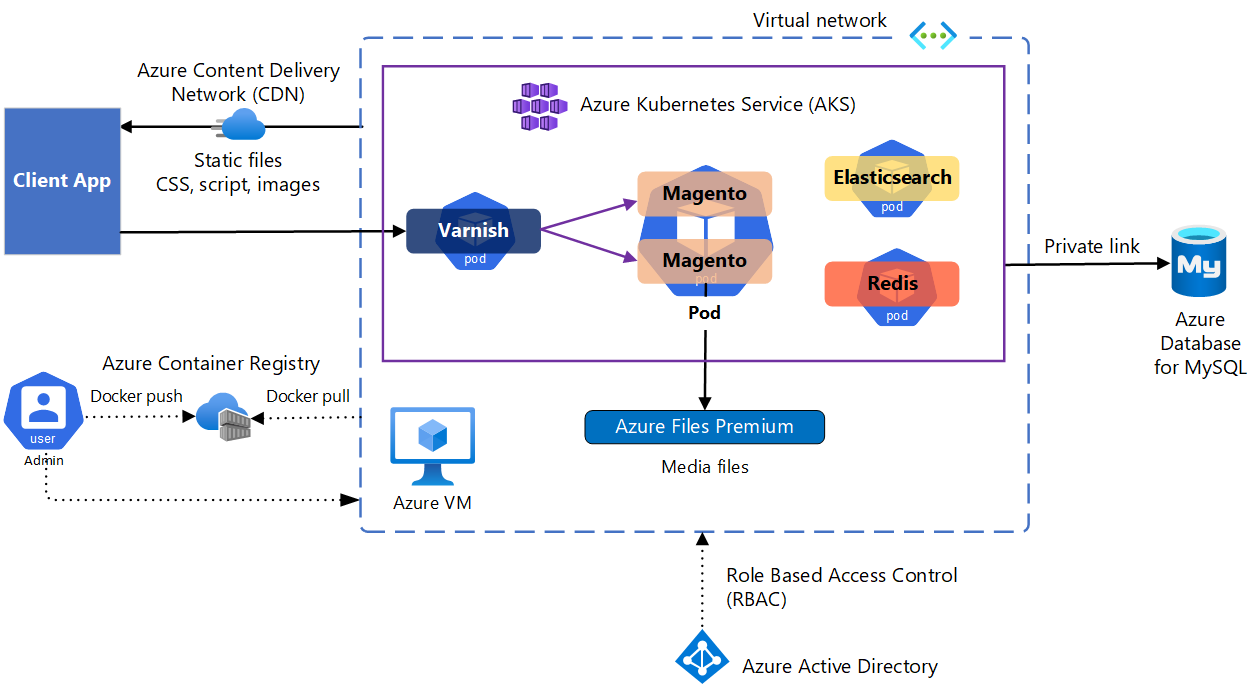
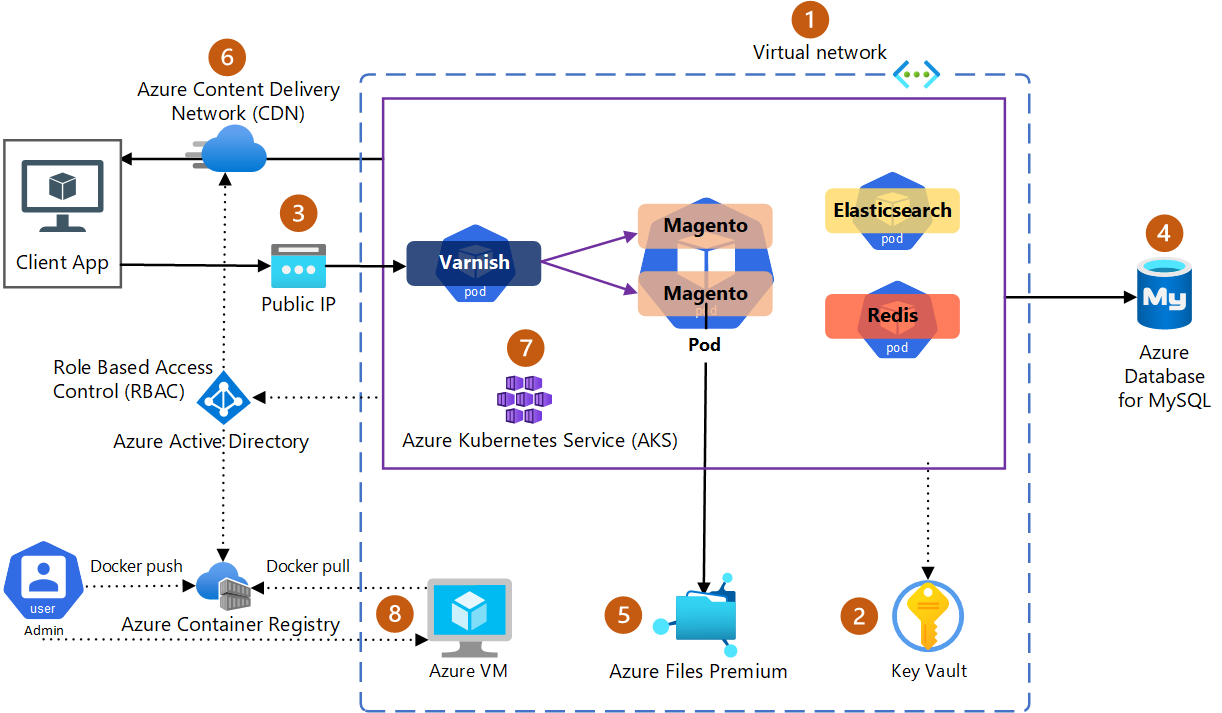
Updating Magento2 Documentation

diff --git a/Magento2/README.md b/Magento2/README.md
@@ -1,4 +1,4 @@
-# One-click ARM template to deploy Magento OSS e-commerce app on Azure
+# Deploy a Magento open-source LAMP-stack e-commerce app on Azure with one click!
 
 ## Introduction
 [Magento Open Source](https://business.adobe.com/products/magento/open-source.html) is a free and flexible e-commerce platform that allows you to create and manage online stores. This Azure Resource Manager JSON template provides a easy one-click method to deploy Magento on Azure using following Azure services to provide an optimal experience of hosting Magento on Azure with tight integrations.
@@ -19,20 +19,22 @@
 This solution includes automation to deploy in a single-click all the required AKS infrastructure, database server and deploy Magento and dependent components in AKS.
 
 The ARM template will create and deploy the following resources in your Azure account:
-![Magento2 solution architecture](images/magento2-architecture.png)
 
-* A virtual network with a subnet and a network security group.
-* A secret that stores the Magento Open-Source credentials and encryption keys.
-* A public IP address and a load balancer.
-* An Azure Database for MySQL – Flexible Server PaaS database for Magento Open Source, the best place for MySQL on Azure.
-* A Redis cache for Magento Open-Source session and page caching.
-* A storage account for Magento Open-Source media files. A persistent volume claim and a storage class that provide persistent storage for Magento Open-Source data.
-* Azure Content Delivery Network (CDN) to store static files, CSS, scripts, images. (Requires SSL/TLS enabled)
-* A deployment of Azure Kubernetes Services (AKS) with:
-    * A specified number of pods that run Magento Open-Source containers.
+1. A virtual network with a subnet and a network security group.
+2. A secret that stores the Magento Open-Source credentials and encryption keys.
+3. A public IP address and a load balancer.
+4. An Azure Database for MySQL – Flexible Server PaaS database for Magento Open Source, the best place for MySQL on Azure.
+5. A storage account for Magento Open-Source media files. A persistent volume claim and a storage class that provide persistent storage for Magento Open-Source data.
+6. Azure Content Delivery Network (CDN) to store static files, CSS, scripts, images. (Requires SSL/TLS enabled)
+7. A deployment of Azure Kubernetes Services (AKS) with:
+    *  A specified number of pods that run Magento Open-Source containers.
     * An Elasticsearch subchart that deploys an Elasticsearch cluster for Magento Open-Source search functionality.
     * A Redis subchart that deploys a Redis server for Magento Open-Source session and page caching.
-* A service that exposes the Magento Open-Source pods to the internet.
+8. A service that exposes the Magento Open-Source pods to the internet.
+
+<p align="center">
+  <img src="images/magento2-architecture.png" alt="Magento2 solution architecture"/>
+</p>
 
 ## Deployment Steps
 The following pre-requisites need to be configured before deploying the ARM template. 
@@ -41,7 +43,9 @@ The following pre-requisites need to be configured before deploying the ARM temp
 3. Run the following commands on Azure CLI to create RBAC Role and assign necessary permissions for running the automated script to configure AKS: 
 
 ```
-az login 
+az login (Does not apply to Azure CLI in Azure Portal)
+
+az account set --subscription <Subscription_Id/Name> (Applicable if multiple subscription associated with Azure account)
 
 az ad sp create-for-rbac --name magento2 --role "Azure Kubernetes Service Contributor Role" --scopes /subscriptions/<Subscription_Id>/resourceGroups/<Resource_Group> 
  
@@ -57,7 +61,7 @@ If using SSL encryption for users to reach the Magento E-Commerce site via HTTPS
 1. Create key vault in the same resource group created initially.
 2. Import your certificates for TLS to the same key vault.
 
-**NOTE -** Make sure to turn on SSL/TLS to use Azure CDN.
+**NOTE -** SSL/TLS is required to use Azure CDN, otherwise turn it off during deployment.
 
 ## Deploy the ARM template
 To deploy this ARM template, open the Azure CLI, and then run the following command: 
@@ -66,6 +70,57 @@ az deployment group create --resource-group <ResourceGroupName> --template-file 
 ``` 
 See [this article](https://docs.microsoft.com/en-us/azure/azure-resource-manager/templates/common-deployment-errors) for troubleshooting the deployment errors. 
 Alternatively, the following button will allow you to deploy the APM template from Azure portal: [![Deploy to Azure](https://aka.ms/deploytoazurebutton)](https://portal.azure.com/#create/Microsoft.Template/uri/https%3A%2F%2Fraw.githubusercontent.com%2FAzure%2Fazure-mysql%2Frefs%2Fheads%2Fmaster%2FMagento2%2Fazuredeploy.json)
+
+## Minimum required inputs for Deployment
+The following configuration values are must for the deployment, some of which you will obtain in the pre-requisite steps:
+
+| Configuration | Description |
+| ------------- | ----------- |
+| Service Principal App ID | The Service Principal App ID from the output of the Azure CLI commands to create the RBAC roles in the earlier steps. |
+| Service Principal Password |	The Service Principal App Password from the output of the Azure CLI commands to create the RBAC roles in the earlier steps. |
+| Composer Username | The public key from the authentication access keys generated at Commerce Marketplace. |
+| Composer Password | The private key from the authentication access keys generated at Commerce Marketplace. |
+| Magento Admin Password | The password for the Magento administrator. |
+| MYSQL Administrator Password | Admin password for Azure Database for MySQL Flexible Server. |
+| VM Admin Password | Admin password for the temporary virtual machine used for AKS setup. |
+| Magento Admin Email | The email address for the Magento admin. |
+| Storage Account Name | The unique name for Azure Storage Account to host Magento content. |
+
+## Advanced Customization (Optional)
+The following configuration uses default values suitable for most simple configurations, do customize based on the application requirements.
+
+| Configuration | Default | Description |
+| ------------- | :-----: | ----------- |
+| Magento Admin Username | magentoadmin | The username you want for the Magento administrator. |
+| MYSQL Administrator Login | mysqlmagento | Admin username for Azure Database for MySQL Flexible Server. |
+| MYSQL Compute SKU | Standard_D2ads_v5 | The name of the SKU for Azure Database for MySQL Flexible Servers, e.g. Standard_D32ds_v4. For a complete list refer: Service tiers. Ensure the SKU capacity is available in the region before selecting from the MySQL Flexible server create page. |
+| Kubernetes System Node Pool Count | 1 | Specifies the number of agents (VMs) to host docker containers. Allowed values must be in the range of 1 to 1000 (inclusive). The default value is 1. |
+| Kubernetes System Node Pool VM Size | Standard_DS2_v2 | Specifies the VM size of nodes in the node pool. |
+| Magento File Share Quota GB | 100 | Size of the azure file share in GB. This quota is for the Magento media and static files. The minimum share size is 100 GB. |
+| Elasticsearch File Share Quota GB | 100 | Size of the azure file share in GB. This quota is for the Elasticsearch. The minimum share size is 100 GB. |
+| VM Size | Standard_DS1_v2 | Choose the compute size for virtual machine. |
+| VM Admin Username | magentovmadmin | Admin username for the temporary virtual machine used for AKS setup. |
+| Redis Cache | Enabled | Set this to true for enabling Redis database caching for the Magento application. |
+| Varnish Cache | Enabled | Set this to true for enabling Varnish HTML content cache for Magento application. |
+| Azure CDN | Disabled | Set this to true for enabling Azure Content Delivery Network (CDN) for static, CSS and scripts for Magento application. (This requires SSL/TLS enabled). |
+| SSL Encryption TLS | Disabled | Enable SSL/TLS encryption for users reaching Magento web application over HTTPS. |
+| Resource Name Prefix | magento | Provide a prefix for generating resource names as part of the Magento solution. |
+| Key Vault Name | blank | The name of the key vault (created in same resource group as pre-requisite) to access certificate for SSL / TLS configuration." |
+| Certificate Name | blank | Provide the respective certificate name in key vault for SSL/TLS configuration. |
+| External FQDN | blank | Provide the external Fully Qualified DNS Name (FQDN) that you have obtained via any web hosting to map to the Magento site. |
+| MYSQL Database Name | magento | The name of the database to store Magento data. |
+| MYSQL Server Edition | GeneralPurpose | The Azure Database for MySQL compute tier. High availability is available only for General Purpose and Business Critical Tiers. |
+| MYSQL Version | 8.0.21 | The MySQL version to be used in Azure Database for MySQL. |
+| MYSQL Availability Zone | blank | The Azure availability zone for the Azure Database for MySQL server, ensure that the zone exists in respective region. (If you don't have a preference, leave this setting blank.) |
+| MYSQL High Availability | Disabled | High availability mode for Azure Database for MySQL server: Disabled, Same-Zone, or Zone-Redundant. |
+| MYSQL Standby Availability Zone | blank | Availability zone of the High availability standby server, ensure that the zone exists in the respective region. (Leave blank for No Preference). Add this value if HA is enabled. |
+| MYSQL Storage Size GB | 20 | Azure database for MySQL storage size in GiB. Storage is used for the database files, temporary files, transaction logs, and the MySQL server logs. In all compute tiers, the minimum storage supported is 20 GiB and maximum is 16 TiB (16384 GiB). It is not required to overprovision storage as by default storage online auto-grow is enabled. |
+| MYSQL Backup Retention Days | 7 | By default, backups are retained for 7 days. The minimum retention period is 1 day and the maximum retention period is 35 days. |
+| MYSQL Geo Redundant Backup | Disabled | Enable Geo-redundant backups for Azure Database for MySQL Flexible Server. |
+| Enable Secret Rotation | true | Accepts value true/false. If true, periodically updates the pod mount and Kubernetes Secret with the latest content from external secrets store. |
+| Rotation Poll Interval | 2m | If enableSecretRotation is true, this setting specifies the secret rotation poll interval duration. This duration can be adjusted based on how frequently the mounted contents for all pods and Kubernetes secrets need to be resynced to the latest. |
+| Storage Account SKU | Premium_LRS | The SKU of the storage account. |
+| SKU Azure CDN | Standard_Microsoft | Provide the profile SKU for the Azure CDN. |
 
 ## Cleanup resources
 To remove this deployment simply remove the following Resource groups:
